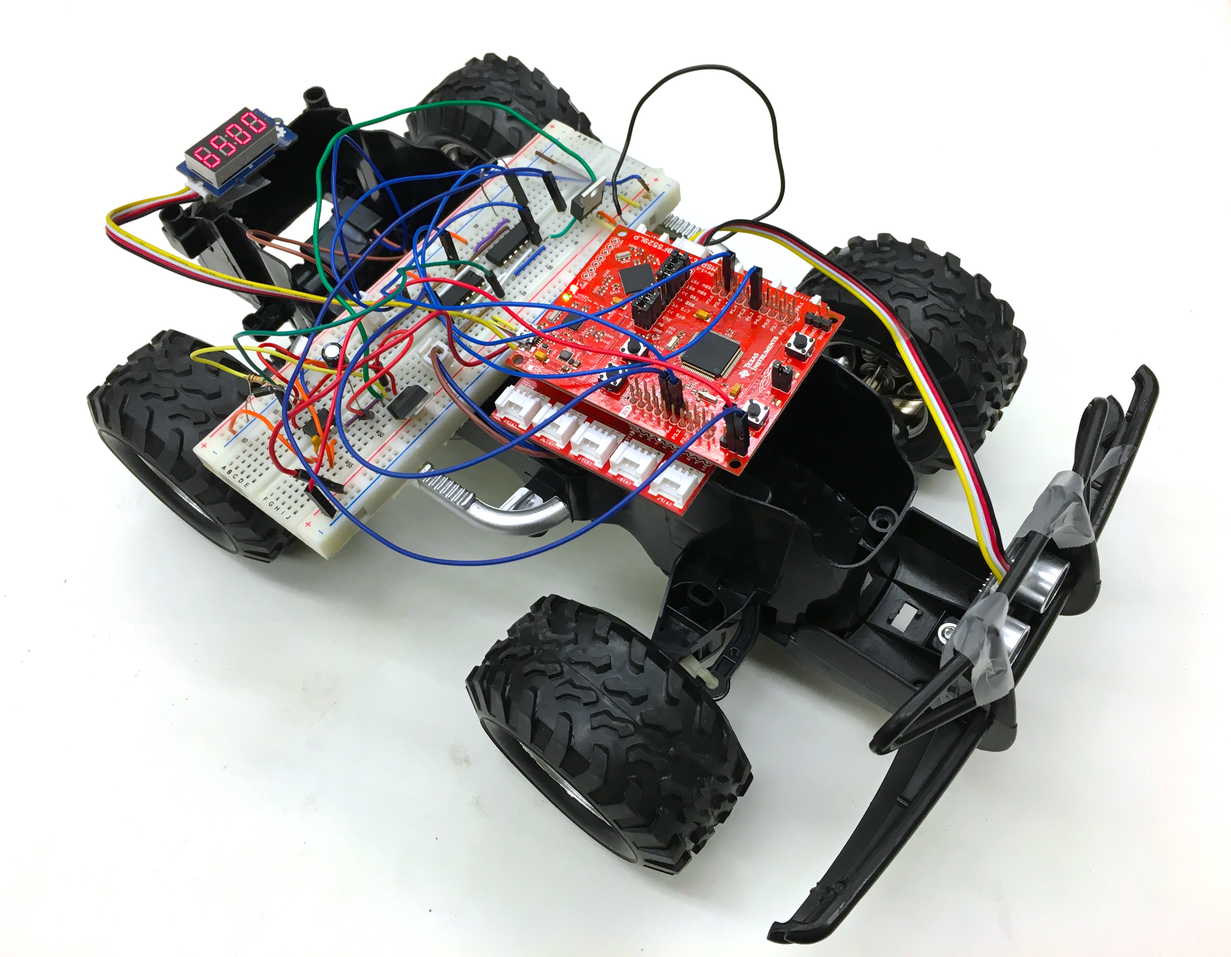
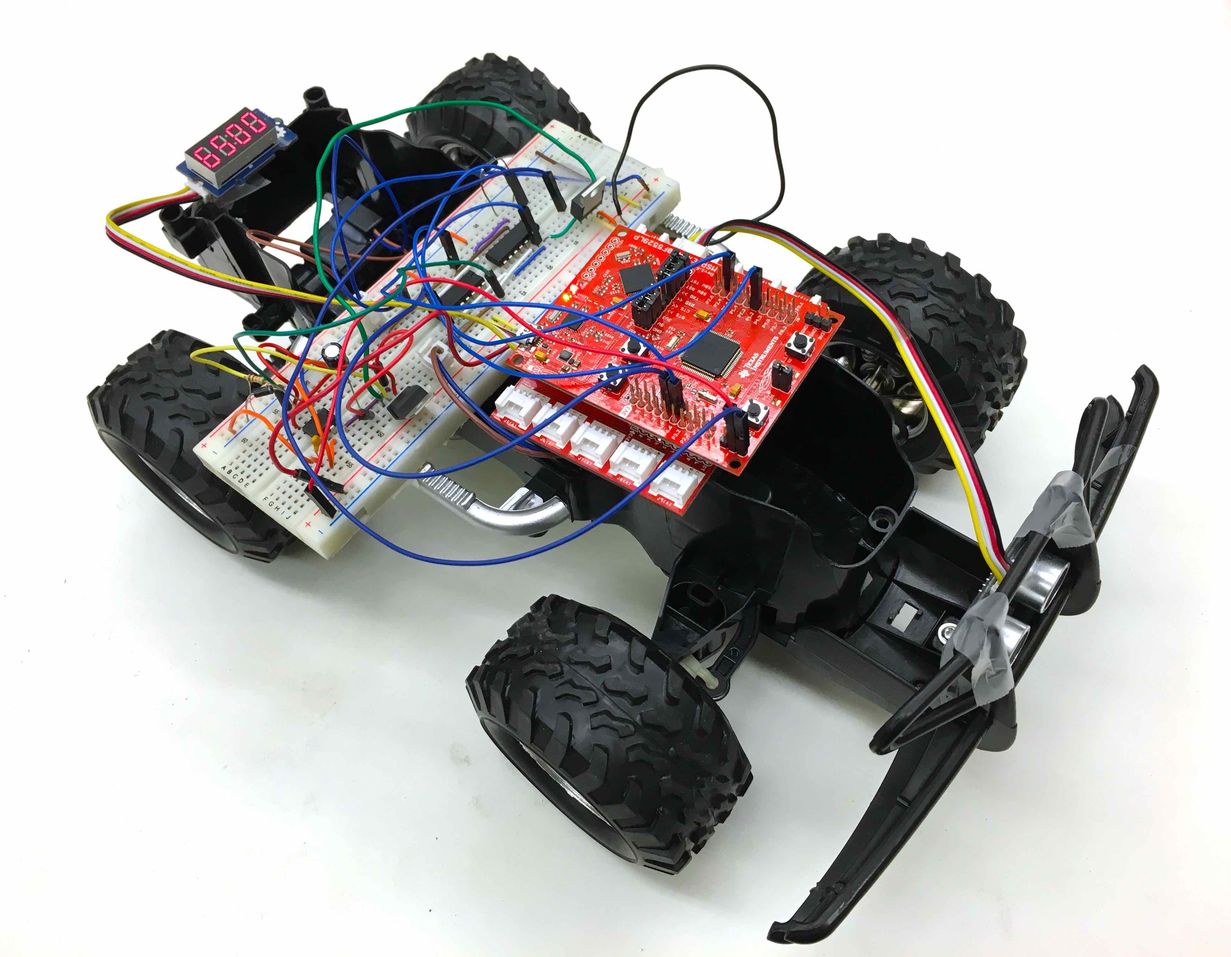
reduced file size of some images; added bridge inspection robot project

Changed region(s): [[0.1866, 0.1243, 0.2177, 0.1554]]

diff --git a/index.html b/index.html
@@ -137,6 +137,20 @@
 	        	            </div>
 	        	        </div>
 	        	        <figure>
+	        	        <img src="/images/portfolio/bridgebot.jpg" class="img-responsive" alt=""> <!-- /theme -->
+	        	        <figcaption>Bridge Inspection Robot</figcaption>
+	        	        </figure>
+	        	    </a>
+	        	</div>
+
+	        <div class="col-sm-4 portfolio-item">
+	        	    <a href="#portfolioModal2" class="portfolio-link" data-toggle="modal">
+	        	        <div class="caption">
+	        	            <div class="caption-content">
+	        	                <i class="fa fa-search-plus fa-3x"></i>
+	        	            </div>
+	        	        </div>
+	        	        <figure>
 	        	        <img src="/images/portfolio/darcy_overview.jpg" class="img-responsive" alt=""> <!-- /theme -->
 	        	        <figcaption>Darcy: Your Public Transportation Assistant</figcaption>
 	        	        </figure>
@@ -144,7 +158,7 @@
 	        	</div>
 
 	        <div class="col-sm-4 portfolio-item">
-	        	    <a href="#portfolioModal2" class="portfolio-link" data-toggle="modal">
+	        	    <a href="#portfolioModal3" class="portfolio-link" data-toggle="modal">
 	        	        <div class="caption">
 	        	            <div class="caption-content">
 	        	                <i class="fa fa-search-plus fa-3x"></i>
@@ -158,7 +172,7 @@
 	        	</div>
 
 	        <div class="col-sm-4 portfolio-item">
-	        	    <a href="#portfolioModal3" class="portfolio-link" data-toggle="modal">
+	        	    <a href="#portfolioModal4" class="portfolio-link" data-toggle="modal">
 	        	        <div class="caption">
 	        	            <div class="caption-content">
 	        	                <i class="fa fa-search-plus fa-3x"></i>
@@ -172,7 +186,7 @@
 	        	</div>
 
 	        <div class="col-sm-4 portfolio-item">
-	        	    <a href="#portfolioModal4" class="portfolio-link" data-toggle="modal">
+	        	    <a href="#portfolioModal5" class="portfolio-link" data-toggle="modal">
 	        	        <div class="caption">
 	        	            <div class="caption-content">
 	        	                <i class="fa fa-search-plus fa-3x"></i>
@@ -300,6 +314,55 @@
 			            <div class="row">
 			                <div class="col-lg-8 col-lg-offset-2">
 			                    <div class="modal-body">
+			                        <h2 style="text-align: center;">Bridge Inspection Robot</h2>
+			                        <!-- <hr class="star-primary"> -->
+			                        <br>
+			                        <h2 style="text-align: center; font-size: 1.5em">Collaborators: Sean Csukas, Kristen Fernandez, Erikzzon Latoja, Sanmeshkumar Udhayakumar</h2>
+			                        <!-- <img src="/images/portfolio/bridgebot.jpg" class="img-responsive img-centered" alt=""> -->
+			                        <!-- /theme -->
+			                        <p><!-- <div style="text-align: center"><iframe width="710" height="400" src="https://www.youtube.com/embed/oP0kZxVtCN8" frameborder="0" allowfullscreen></iframe></div><br> -->
+
+<p><img class="img-responsive img-centered" width="710" height="400" src="/images/portfolio/bridgebot.jpg"></p>
+<p>The Bridge Inspection was our senior design project for Georgia Tech's ECE Senior Design course (ECE 4012).</p>
+<p>For more information, check out our project page <a href="https://jtamayo6.github.io/bridge-inspection-robot/">here</a>.</p>
+<p><img class="img-responsive img-centered" style="width: 70%; height: auto" src="/images/portfolio/bridgebot_group.jpg"></p></p>
+			                        <ul class="list-inline item-details">
+			                            <!-- 
+<li>Client:
+			                                <strong><a href=""></a>
+			                                </strong>
+			                            </li>
+ -->
+			                            <li>Date:
+			                                <strong><a href="http://startbootstrap.com">April 25 2017</a>
+			                                </strong>
+			                            </li>
+			                            <!-- 
+<li>Service:
+			                                <strong><a href="http://startbootstrap.com"></a>
+			                                </strong>
+			                            </li>
+ -->
+			                        </ul>
+			                        <button type="button" class="btn btn-default" data-dismiss="modal"><i class="fa fa-times"></i> Close</button>
+			                    </div>
+			                </div>
+			            </div>
+			        </div>
+			    </div>
+			</div>
+			<div class="portfolio-modal modal fade" id="portfolioModal2" tabindex="-1" role="dialog" aria-hidden="true">
+			    <div class="modal-content">
+			        <div class="close-modal" data-dismiss="modal">
+			            <div class="lr">
+			                <div class="rl">
+			                </div>
+			            </div>
+			        </div>
+			        <div class="container">
+			            <div class="row">
+			                <div class="col-lg-8 col-lg-offset-2">
+			                    <div class="modal-body">
 			                        <h2 style="text-align: center;">Darcy: Your Public Transportation Assistant</h2>
 			                        <!-- <hr class="star-primary"> -->
 			                        <br>
@@ -359,7 +422,7 @@
 			        </div>
 			    </div>
 			</div>
-			<div class="portfolio-modal modal fade" id="portfolioModal2" tabindex="-1" role="dialog" aria-hidden="true">
+			<div class="portfolio-modal modal fade" id="portfolioModal3" tabindex="-1" role="dialog" aria-hidden="true">
 			    <div class="modal-content">
 			        <div class="close-modal" data-dismiss="modal">
 			            <div class="lr">
@@ -411,7 +474,7 @@
 			        </div>
 			    </div>
 			</div>
-			<div class="portfolio-modal modal fade" id="portfolioModal3" tabindex="-1" role="dialog" aria-hidden="true">
+			<div class="portfolio-modal modal fade" id="portfolioModal4" tabindex="-1" role="dialog" aria-hidden="true">
 			    <div class="modal-content">
 			        <div class="close-modal" data-dismiss="modal">
 			            <div class="lr">
@@ -463,7 +526,7 @@
 			        </div>
 			    </div>
 			</div>
-			<div class="portfolio-modal modal fade" id="portfolioModal4" tabindex="-1" role="dialog" aria-hidden="true">
+			<div class="portfolio-modal modal fade" id="portfolioModal5" tabindex="-1" role="dialog" aria-hidden="true">
 			    <div class="modal-content">
 			        <div class="close-modal" data-dismiss="modal">
 			            <div class="lr">
